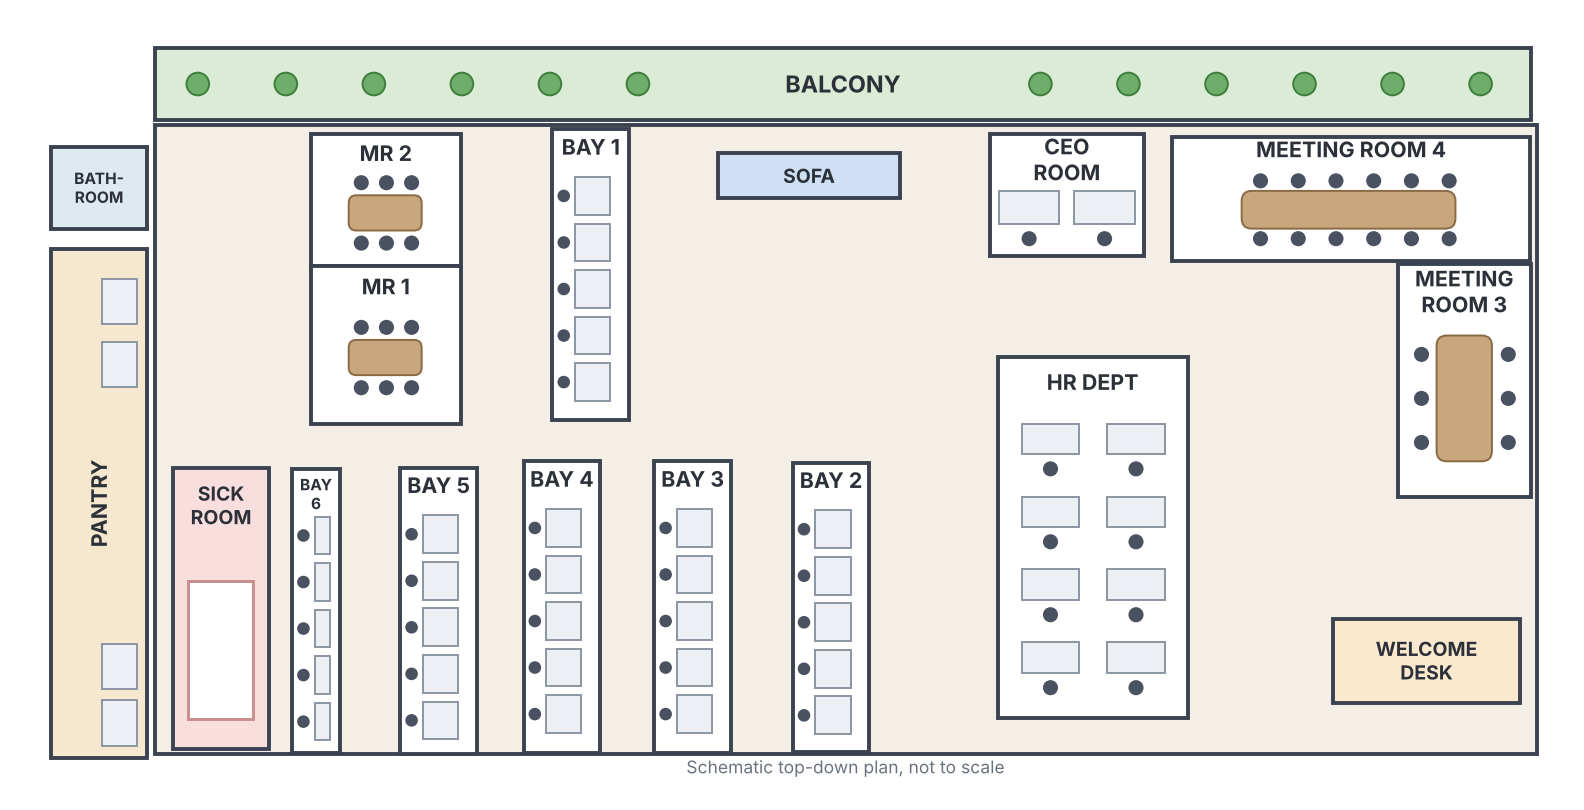
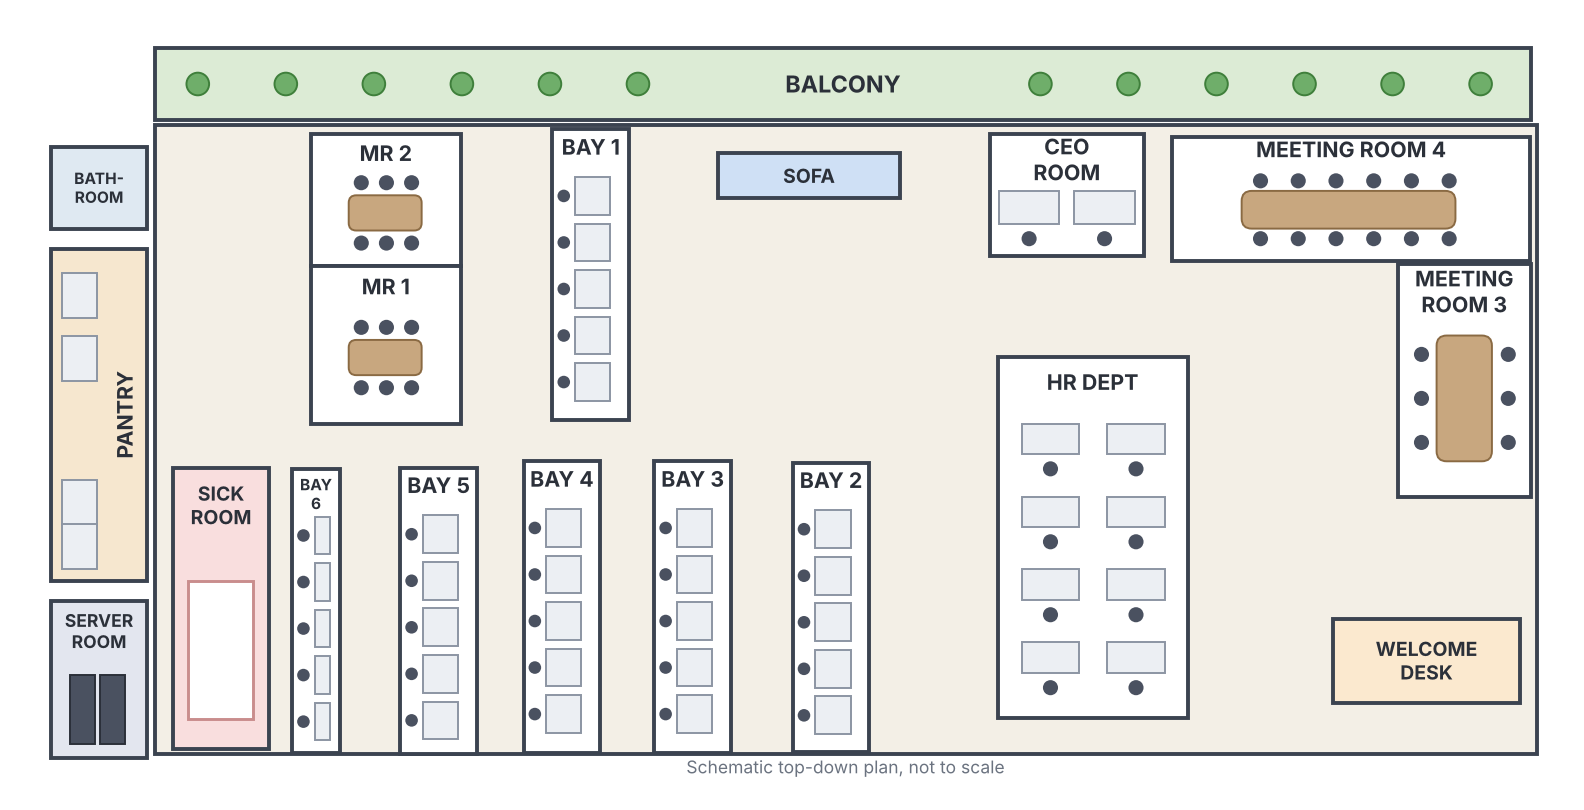
Office plan: bathroom, pantry and server room in one column
Claude-Session: https://claude.ai/code/session_01KqGAaD2WEMdh7sGVBHMM8W

Changed region(s): [[0.0309, 0.3395, 0.0928, 0.9568]]

diff --git a/office-birds-eye/build_plan.py b/office-birds-eye/build_plan.py
@@ -28,9 +28,15 @@ for x in list(range(230, 600, 70))+list(range(900, 1270, 70)):
 
 # service rooms
 room(113, 125, 190, 190, "BATH-\nROOM", fc="#dfe9f2", fs=8)
-room(113, 206, 190, 611, "PANTRY", fc="#f6e7cf", rot=90)
-for y in (230, 280, 520, 565):                       # counters
-    desk(154, y, 28, 36)
+room(113, 206, 190, 470, "", fc="#f6e7cf")
+ax.text(172, 338, "PANTRY", rotation=90, ha="center", va="center", fontsize=11, fontweight="bold", color="#2b3039", zorder=20)
+for y in (225, 275, 390, 425):                       # counters
+    desk(122, y, 28, 36)
+
+# server room (same column)
+room(113, 486, 190, 611, "SERVER\nROOM", fc="#e3e6ef", fs=9, ly=510)
+for x in (128, 152):
+    ax.add_patch(Rectangle((x, 545), 20, 55, fc="#4a5160", ec="#2b3039", lw=1, zorder=5))
 
 # MR2 / MR1 (stacked)
 for (y1, y2, lab, ty) in [(115, 220, "MR 2", 130), (220, 345, "MR 1", 236)]:
